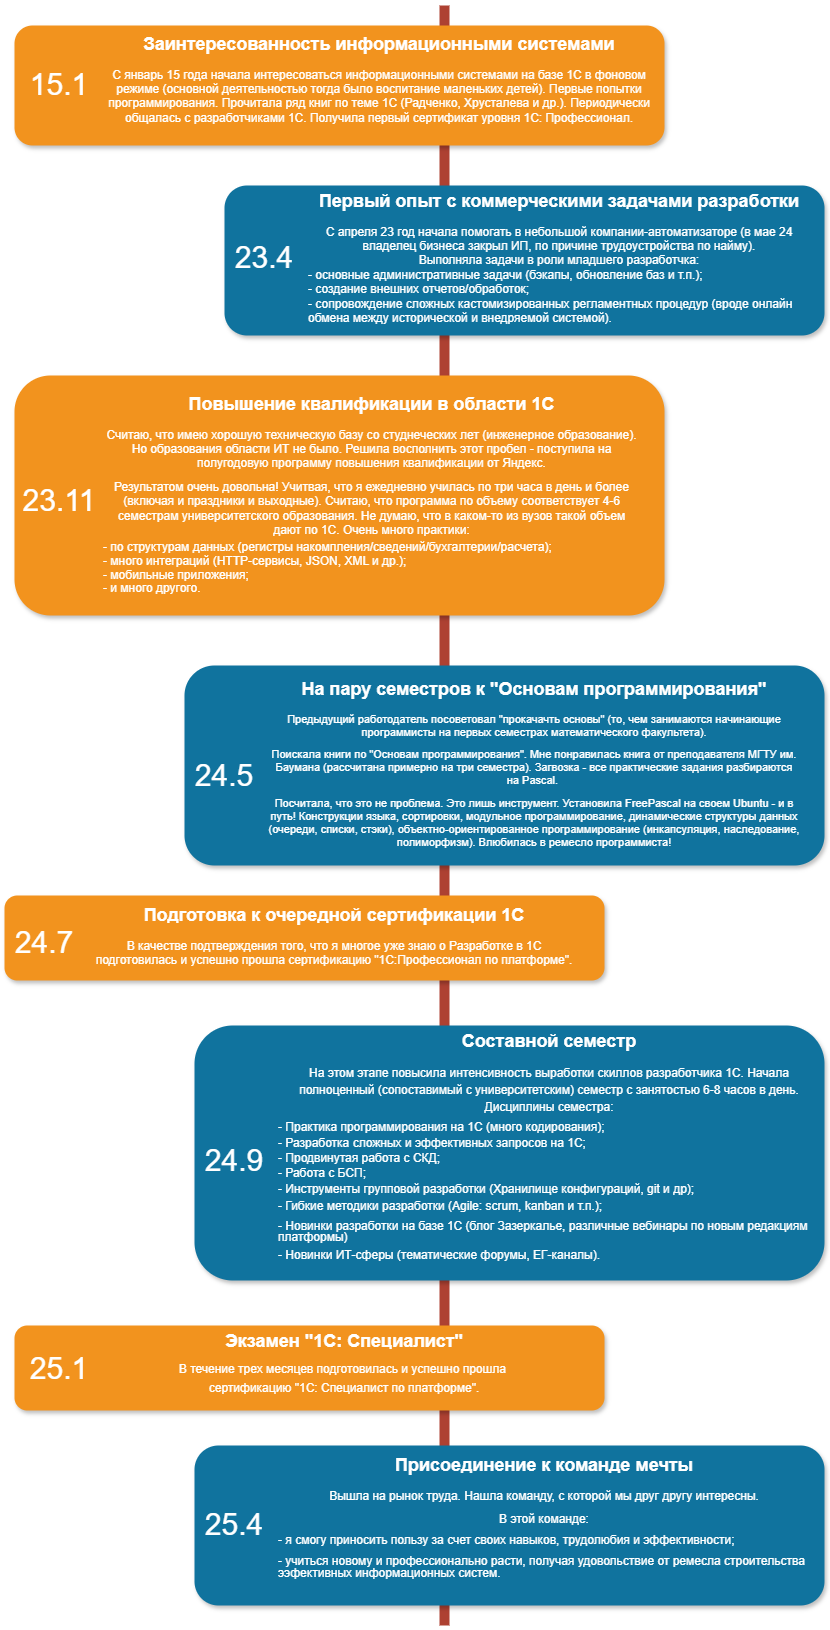
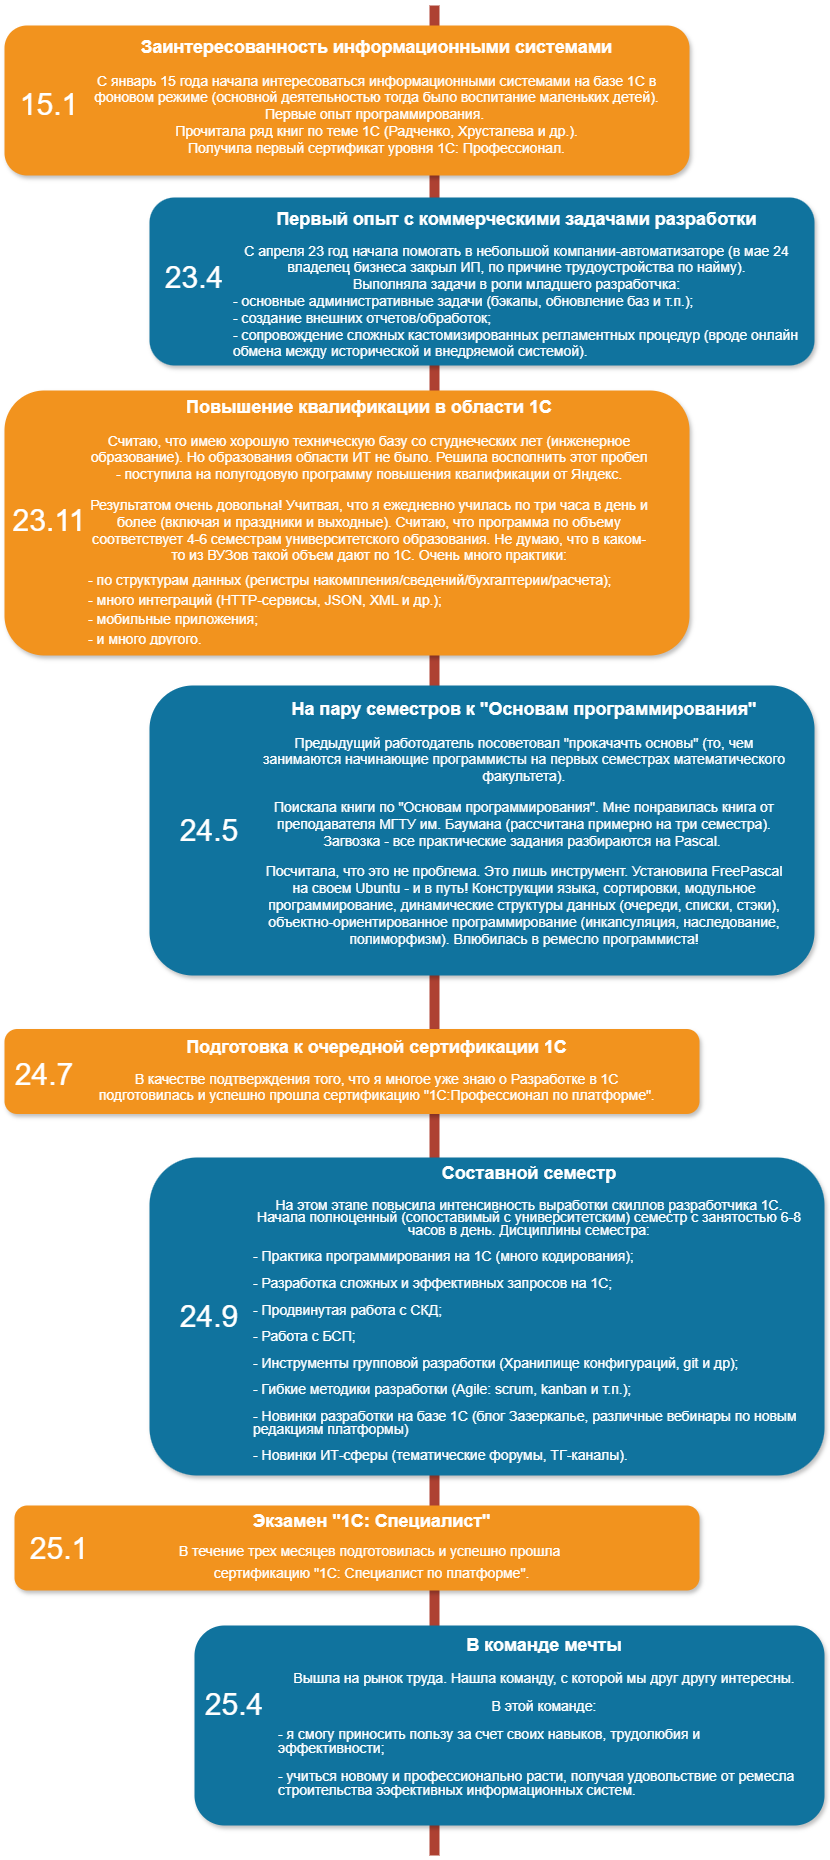
Корректировка резюме

diff --git a/README.md b/README.md
@@ -1,16 +1,22 @@
 # Резюме разработчика 1С
 <br>
-Добрый день, коллеги!
+Добрый день!
 <br>
 Меня зовут Светлана.
+<br>
+Благодарна читателю за внимание к моей страничке.
 <br>
 Каждый день делаю шаги в совершенствовании в ремесле "Разработчик 1С".
 <br>
 
-Общая информация:
-- Высшее инженерное образование (Тюменский Государственный Нефтегазовый Университет, специальность "Металообрабатывающие станки и комплексы");
-- Опыт работы связанный с 1С: решение задач в роли младшего разработчика (Май 23 - май 24) в https://lebedev-it.ru;
+Вкратце:
+- Высшее инженерное образование (ТюмГНГУ, специальность "Металообрабатывающие станки и комплексы");
+- Опыт связанный с 1С: решение задач в роли младшего разработчика (май 23 - май 24) в https://lebedev-it.ru;
 - Уверена, что стану эффективным участником ИТ-команды, потому что проделала уже большой путь в этом направлении и не собираюсь останавливаться (подробнее на картинке ниже).
 
 <br>
 <image src="/images/My1CWay_20240522.png" alt="Мой путь в 1С">
+
+Контакты:
+- 89091885481
+- svetlana.tmn@mail.ru
